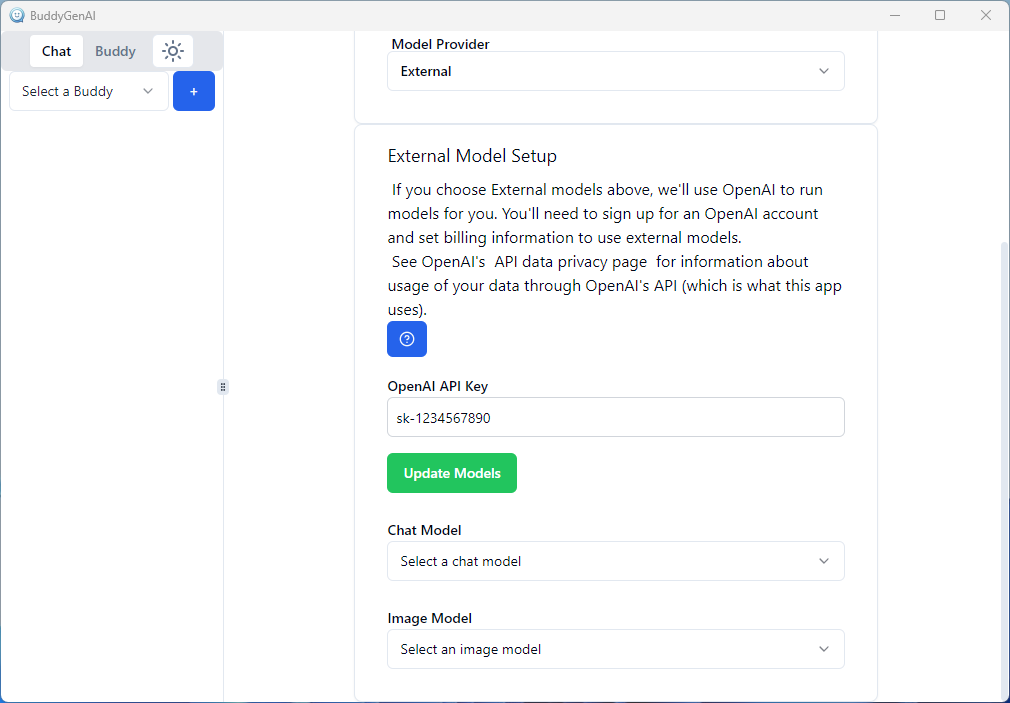
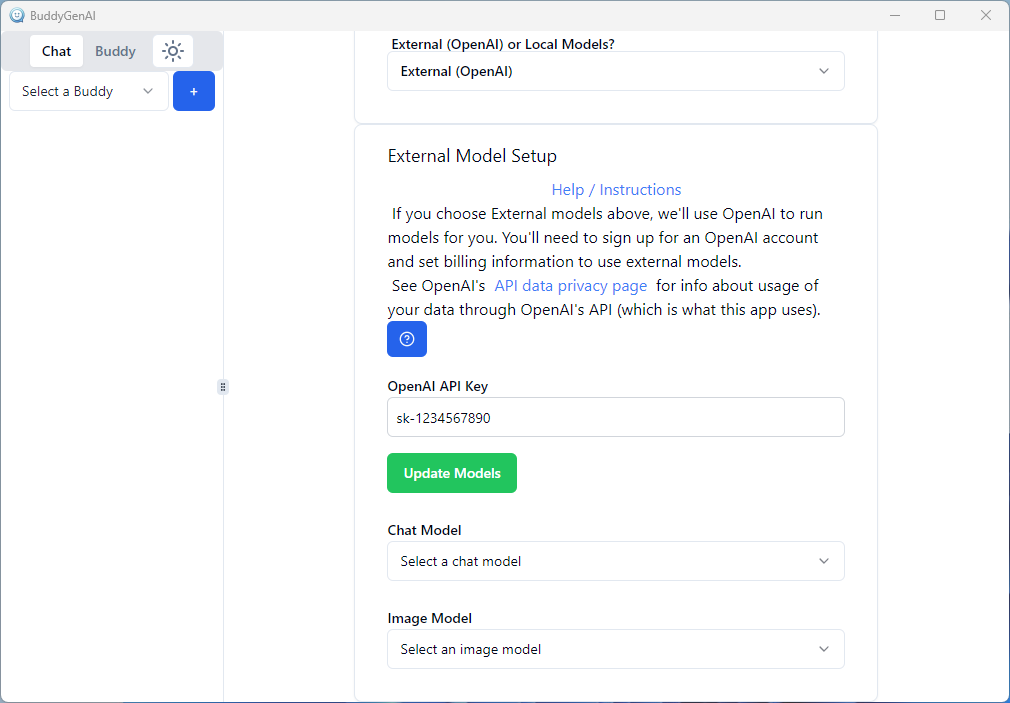
improve setup doc, update readme

diff --git a/docs/how-to-setup.md b/docs/how-to-setup.md
@@ -1,3 +1,7 @@
+# Troubleshooting
+
+- Try closing the app and opening it again
+
 # How to setup for the first time
 
 You can use BuddyGenAI using OpenAI's models or you can bring-your-own-models and run them on your own PC.
@@ -6,7 +10,7 @@ Open the app if you haven't already. You'll see the setup screen:
 
 ![BuddyGen AI setup 1](./img/v2/setup%20-%20external.png)
 
-Do you want to use OpenAI's models or run your own?
+Do you want to use [OpenAI's models](#openai-models-setup) or [run your own](#local-models-setup)?
 
 ## OpenAI Models Setup
 
@@ -18,61 +22,91 @@ Now go to the [API Keys](https://platform.openai.com/account/api-keys) page and 
 
 ## Local Models Setup
 
+(**Experimental**) -- This feature is still in active development. If you run into any issues or have suggestions to improve anything, please [create a new issue](https://github.com/parsehex/BuddyGenAI/issues).
+
 ### Requirements
 
-[Microsoft Visual C++ Redistributable x64](https://aka.ms/vs/17/release/vc_redist.x64.exe)
+You should download and install the following before continuing:
 
-- (NVIDIA GPUs) [CUDA Toolkit](https://developer.nvidia.com/cuda-downloads)
-- (AMD GPUs) [ROCm SDK](https://www.amd.com/en/developer/resources/rocm-hub/hip-sdk.html) -- I haven't tested on an AMD GPU yet
+- [Microsoft Visual C++ Redistributable x64](https://aka.ms/vs/17/release/vc_redist.x64.exe)
+- (if you have NVIDIA GPU) [CUDA Toolkit](https://developer.nvidia.com/cuda-downloads)
+- (if you have AMD GPU) [ROCm SDK](https://www.amd.com/en/developer/resources/rocm-hub/hip-sdk.html) -- not tested yet
 
-You'll need to download a couple AI models if you don't already have them - a chat model like Llama 3 and a Stable Diffusion (1.5) model.
+You'll also need to download a couple AI models if you don't already have them - a chat model like Llama 3 and a Stable Diffusion (1.5) model.
 
-The following models are what I developed with and should work for most. Other models may work (planned to support more in the future).
+The following are the models that I've mainly used while making the app. Support for more models will be added in the future.
 
-- Llama 3 (Q2_K) - Download [Here](https://huggingface.co/bartowski/Meta-Llama-3-8B-Instruct-GGUF/resolve/main/Meta-Llama-3-8B-Instruct-Q2_K.gguf?download=true) or [Here](https://huggingface.co/QuantFactory/Meta-Llama-3-8B-Instruct-GGUF/resolve/main/Meta-Llama-3-8B-Instruct.Q2_K.gguf?download=true)
+The following are the models that I've been using while making the app (other may work as well), I've included links to download them from Hugging Face and Civitai for convenience.
+
+Depending on how powerful your PC is, you can choose a model with a higher number (e.g. >=Q4_K) and you'll get better results. I don't have a good way to pick a good size at the moment, feel free to [reach out](https://github.com/parsehex/BuddyGenAI/discussions) if you need help.
+
+You'll need to download a chat model (e.g. 1 of the Llama 3 links below) and an SD 1.5 image model (e.g. Toonify SD 1.5 below).
+
+- Llama 3
+  - Q2_K - This is a good one to start with
+    - Download [Here](https://huggingface.co/bartowski/Meta-Llama-3-8B-Instruct-GGUF/resolve/main/Meta-Llama-3-8B-Instruct-Q2_K.gguf) or [Here](https://huggingface.co/QuantFactory/Meta-Llama-3-8B-Instruct-GGUF/resolve/main/Meta-Llama-3-8B-Instruct.Q2_K.gguf)
+  - Q4_K
+    - Download [Here](https://huggingface.co/bartowski/Meta-Llama-3-8B-Instruct-GGUF/resolve/main/Meta-Llama-3-8B-Instruct-Q4_K.gguf) or [Here](https://huggingface.co/QuantFactory/Meta-Llama-3-8B-Instruct-GGUF/resolve/main/Meta-Llama-3-8B-Instruct.Q4_K.gguf) or [Here](https://huggingface.co/QuantFactory/Meta-Llama-3-8B-Instruct-GGUF/resolve/main/Meta-Llama-3-8B-Instruct.Q4_K.gguf)
 - Toonify SD 1.5 - [Download Here](https://civitai.com/api/download/models/244831)
 
-### Start BuddyGen AI
+### Move Models & Finish Setup
 
-First, pick where you want models to be stored. Don't pick somewhere that will get synced to the cloud (like Dropbox or Google Drive) as the models are large and you don't want to accidentally upload them.
+Now that you have the models downloaded, you'll need to move them to the correct location.
 
-A folder called `BuddyGen Models` will be made in the location you choose. Move the 2 models you downloaded into this folder. Then, put Llama-3 or your chat model in the `chat` folder and toonify in the `image` folder.
+Open BuddyGenAI and click "Local Models" on the setup screen, then follow this gif:
 
-```
-Example Folder Structure:
-BuddyGen Models
-├── chat
-│   └── Meta-Llama-3-8B-Instruct-Q2_K.gguf
-└── image
-		└── toonify_remastered.safetensors
-```
+![BuddyGen AI setup 1](./img/v2/BuddyGenAI%20-%20Local%20Model%20Setup.gif)
 
-Now back to the app, pick your models:
+- Click on Open Folder
+- Go to Downloads (or wherever you saved the models)
+- Select and right-click the model files you downloaded and click Cut (or Copy)
+- Click the Back button to go back to the `Models` folder
+- Right-click in the folder and click Paste
+- Close the folder and click "Update Models" in the app
+- Select the Chat Model and then the Image Model
 
-![BuddyGen AI setup 2](./img/model-setup_3.png)
+---
 
-Fill in your name and the name of your Buddy:
+Now you're ready to fill in your name and create your first Buddy:
 
-![BuddyGen AI setup 3](./img/setup%20-%201%20with%20name.png)
+![BuddyGen AI setup 3](./img/v2/setup%20-%20step%202%20with%20name.png)
 
 Fill in a description you like, or click the purple Magic button to use AI to generate suggestions for your Buddy:
 
-![BuddyGen AI setup 4](./img/setup%20-%202%20randomize%20with%20a%20name%20after.png)
+> Note: Magic buttons are not very fleshed out yet.
 
-Click `Create Buddy` when you're satisfied and now you can give your Buddy an appearance using keywords:
+![BuddyGen AI setup 4](./img/v2/setup%20-%20description%20magic%20button.png)
 
-![BuddyGen AI setup 5](./img/setup%20-%203%20describe%20buddy%20appearance.png)
+Click `Create Buddy` when you're satisfied.
 
-You can use the Magic button to generate suggestions for your Buddy's appearance as well:
+---
 
-![BuddyGen AI setup 6](./img/setup%20-%203%20pick%20what%20you%20want.png)
+Now you can describe your Buddy's appearance.
+
+There's a Magic button to generate suggestions for your Buddy's appearance as well:
+
+![BuddyGen AI setup 6](./img/v2/setup%20-%20img%20keywords%20magic%20button.png)
 
 Click "Accept & Make Picture" and wait for the picture to be generated. You can click "Make Profile Picture" until you find one you like and then click "Save":
 
-![BuddyGen AI setup 7](./img/setup%20-%204%20result.png)
+![BuddyGen AI setup 7](./img/v2/setup%20-%20make%20pic.png)
 
 Start talking with your Buddy:
 
-![BuddyGen AI setup 8](./img/chat.png)
+![BuddyGen AI setup 8](./img/v2/chat.png)
 
-## GPU Support
+---
+
+**Using a GPU?**
+
+If you've followed the instructions so far then you'll need to do one more thing for the chat model to take advantage of your hardware.
+
+Assuming you chose one of the Llama 3 models above, then go to the Settings tab:
+
+![BuddyGen AI settings](./img/v2/sidebar%20-%20settings.png)
+
+Change "Number of GPU Layers" to 35.
+
+Now either restart the app or go to the Chat tab, click on the (green) "Chat Online" to restart the chat manually:
+
+![BuddyGen AI chat server](./img/v2/gpu%20restart%20chat.png)

diff --git a/README.md b/README.md
@@ -9,6 +9,10 @@ BuddyGenAI is a chat application designed to create and interact with virtual bu
   - Or customize your Buddy to behave exactly how you want 🎨
 - Generate profile pictures for your Buddy 🖼
 
+## Support / Help
+
+If you find an issue with the app, please report it on the [issues page](https://github.com/parsehex/BuddyGenAI/issues). If you need help setting up the app or anything else, feel free to ask on the [discussions page](https://github.com/parsehex/BuddyGenAI/discussions).
+
 ## ⚙ Setup
 
 BuddyGenAI is in pre-release stage and so the experience will be unstable at times. If you encounter any issues, please report them on the [issues page](https://github.com/parsehex/BuddyGenAI/issues).
